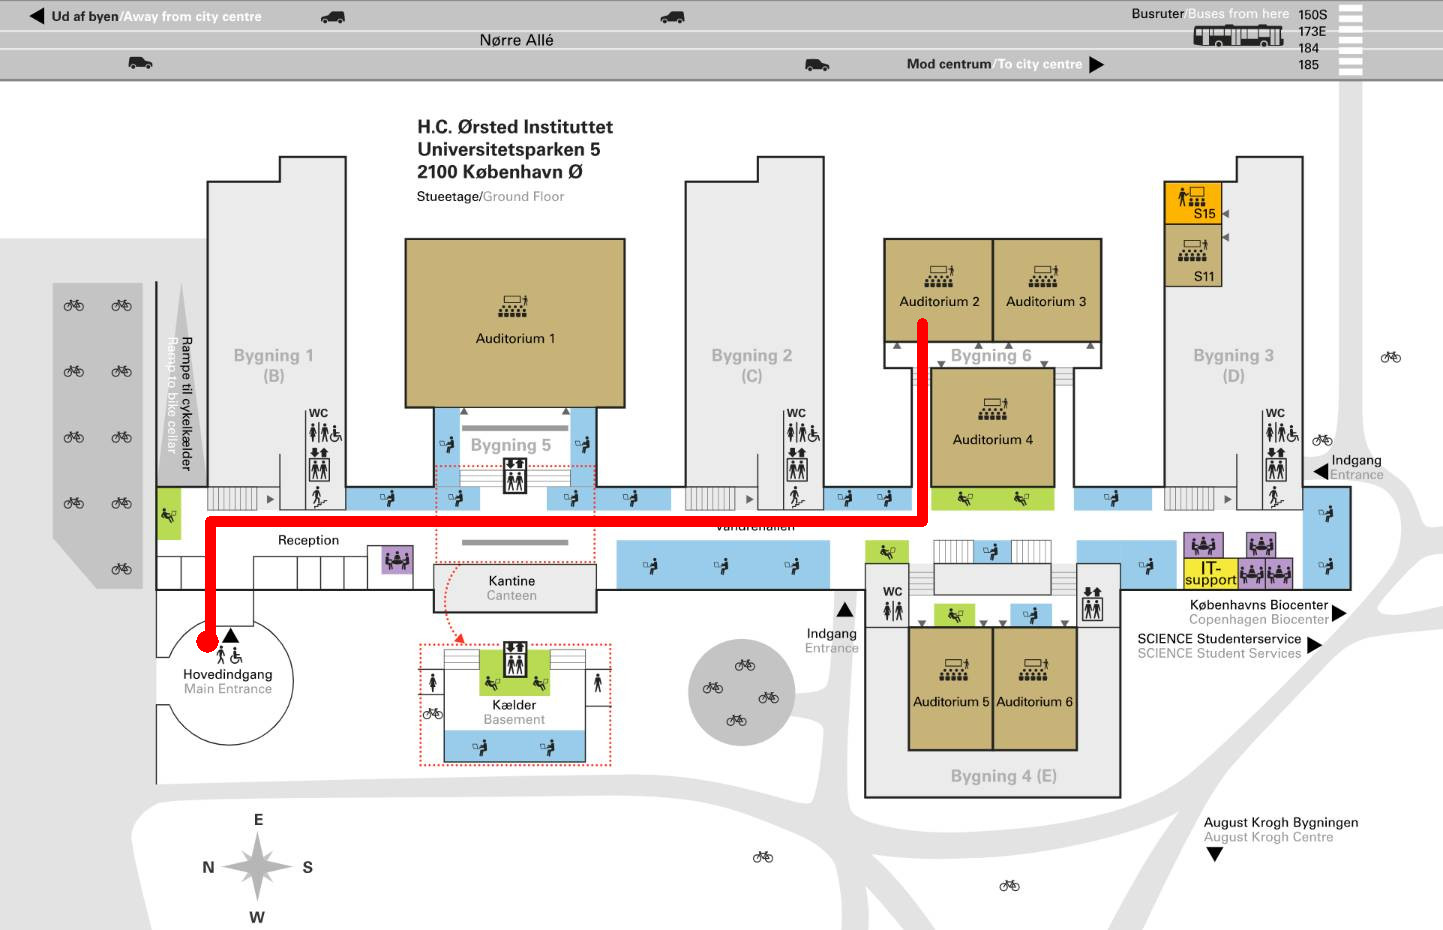
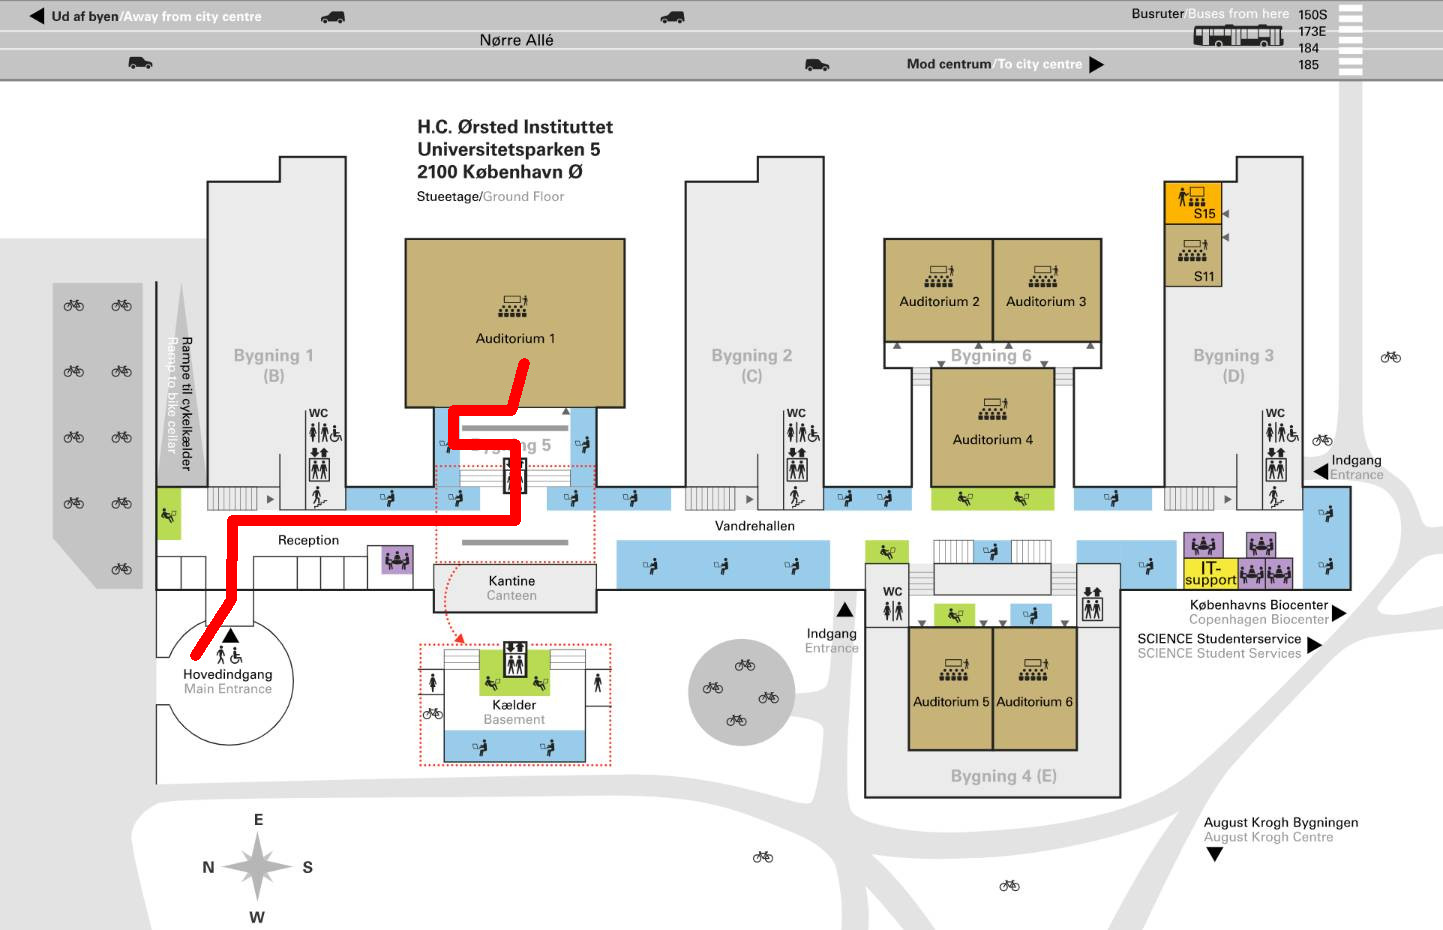
Update location.

Changed region(s): [[0.3119, 0.343, 0.6549, 0.5925], [0.1247, 0.5613, 0.1871, 0.7172]]

diff --git a/README.md b/README.md
@@ -5,10 +5,9 @@ programming language researchers working in the greater Copenhagen area, open to
 academics (DTU, KU, ITU, RUC, AAU CPH) and researchers in industry and other
 institutions. The aim is to get together and learn about each other's work.
 
-**[CoPLaWS 2026](https://coplaws.github.io/2026)** is the fourth edition of the workshop. It will take place on
-
-- **20th of August** at the **University of Copenhagen** at the northern campus.
-  [Precise location below](#the-room).
+**[CoPLaWS 2026](https://coplaws.github.io/2026)** is the fourth edition of the
+workshop. It will take place on the **20th of August** at the **University of
+Copenhagen** at the northern campus. [Precise location below](#the-room).
 
 COPLAWS 2026 is be a full-day event with an optional dinner. More information on
 the dinner [below](#dinner).
@@ -26,8 +25,8 @@ TBA
 We invite the submission of abstracts for 20-minute talks on all topics related
 to programming language research.
 
-We encourage also PhD students to submit proposals! We encourage also
-presentations of work-in-progress research!
+We encourage also PhD students to submit proposals, as well as presentations of
+work-in-progress research!
 
 Since there are many programming language researchers in Copenhagen, it is
 possible that we will get more talk proposals than can fit in a day. In that
@@ -42,12 +41,11 @@ to submit any PDF.
 - **Notification:** 11 August 2026
 - **Participation registration link:** TBA
 - **Participation registration deadline:** 13 August 2026
--->
 
 ## The room
 
 The **tentative** venue is in the **HCØ Building** at **Universitetsparken 5**,
-in **Auditorium 03**. The map below shows the path from the front entrance to
+in **Auditorium 01**. The map below shows the path from the front entrance to
 the auditorium.
 
 <img src="map.jpg" alt="HCØ map" width="400"/>
